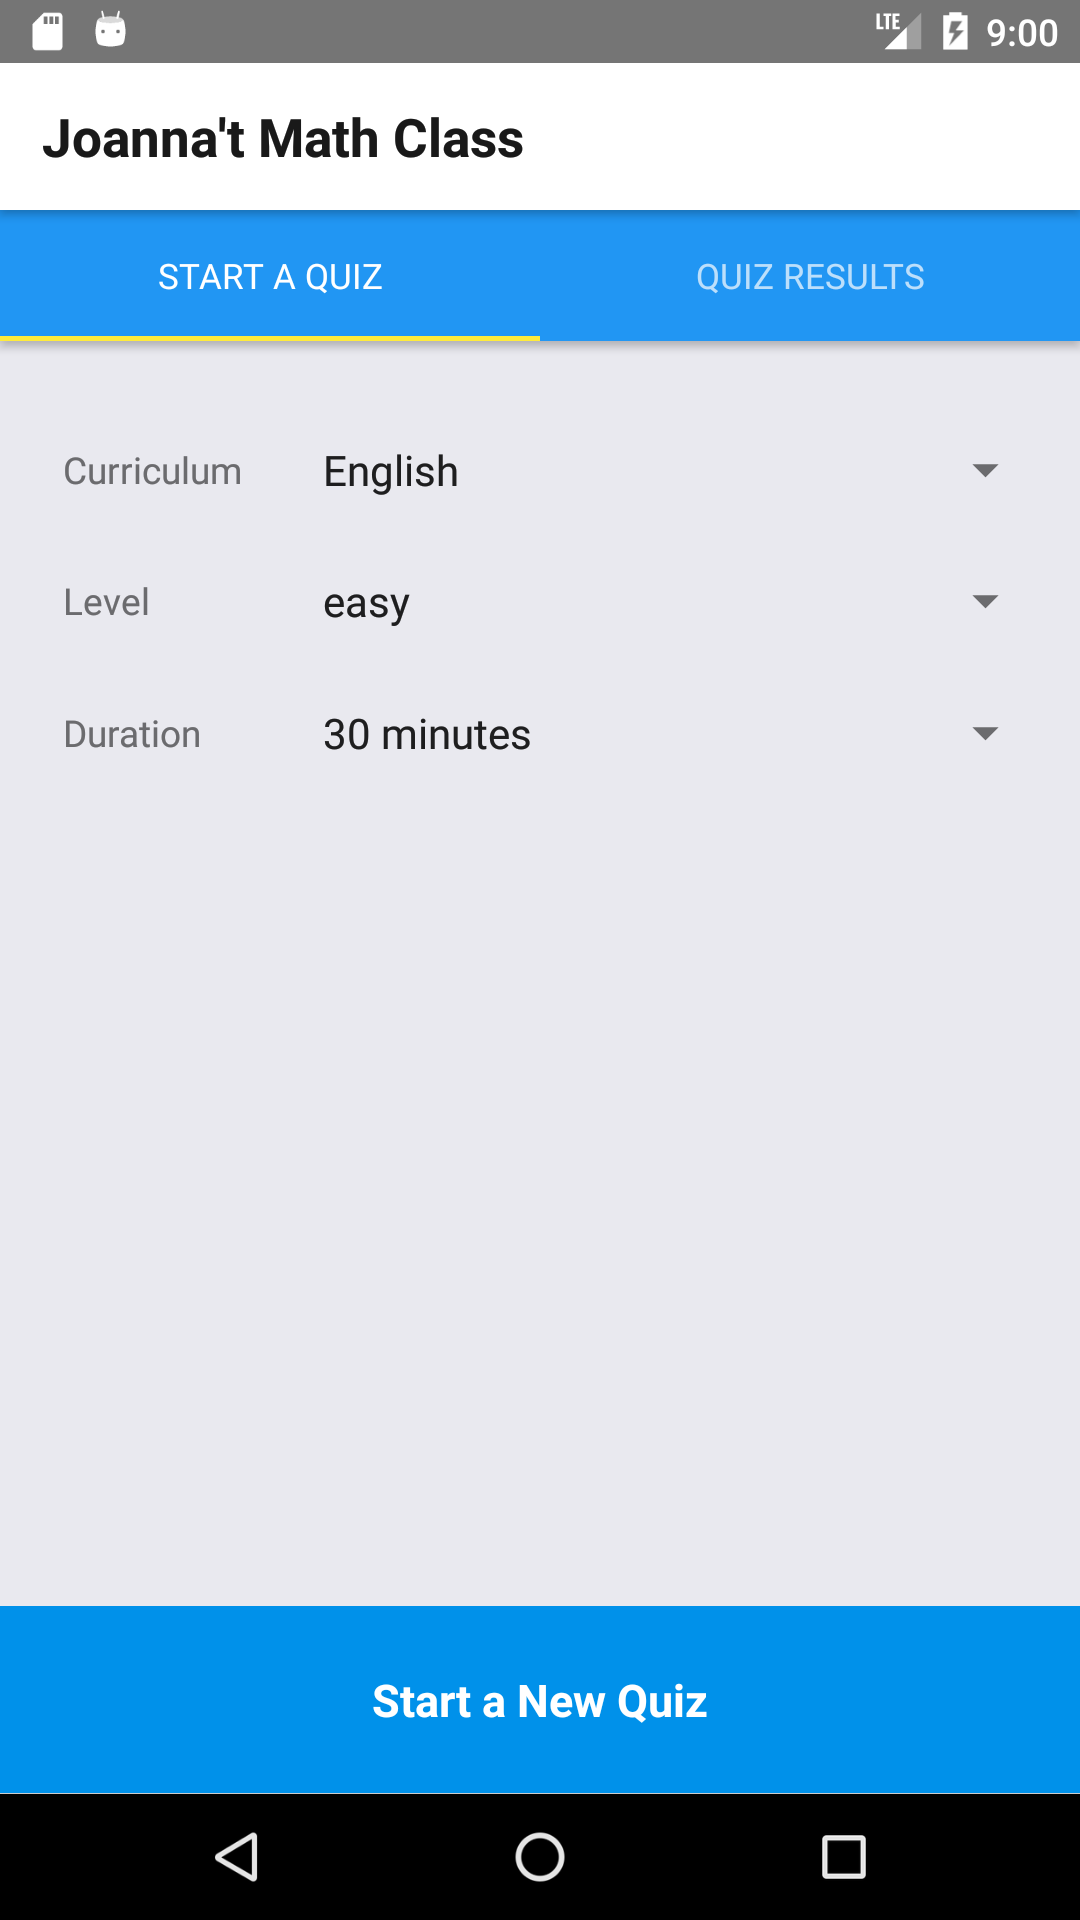
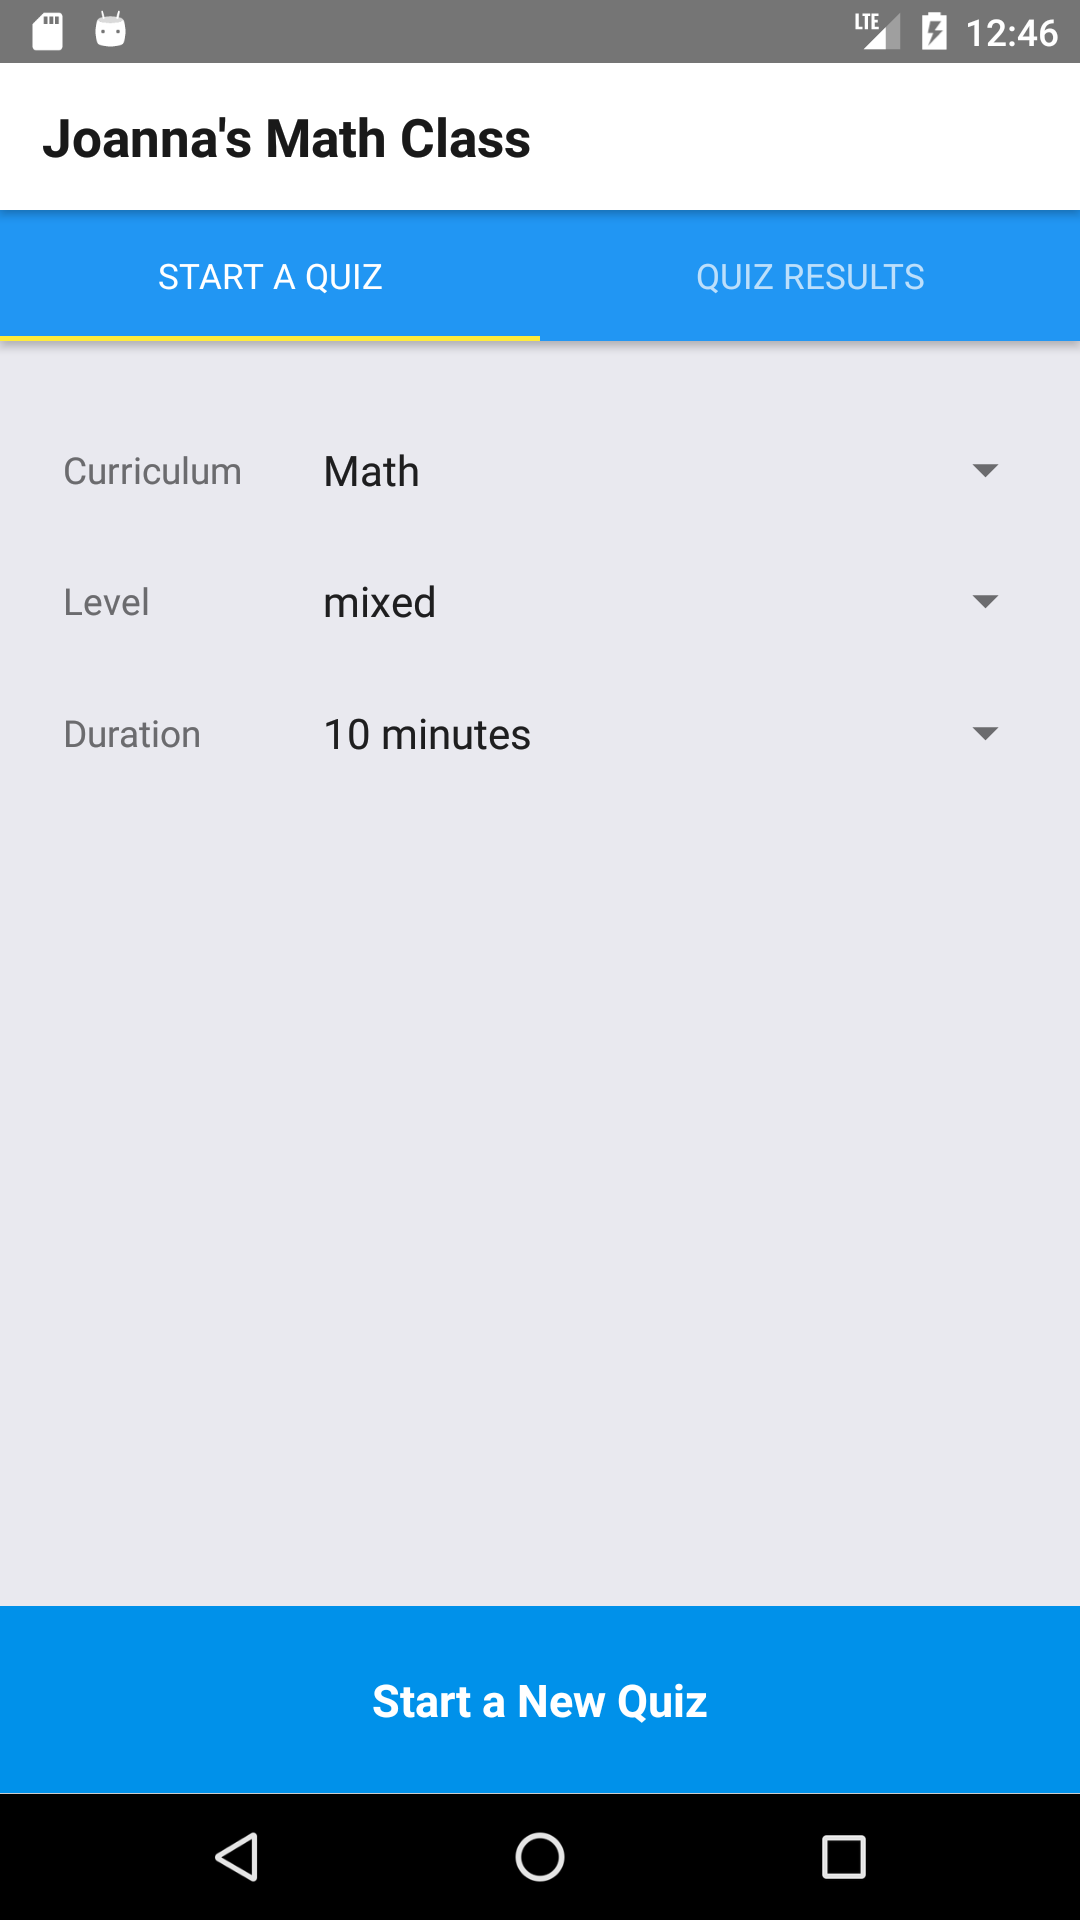
bugfix

diff --git a/app/app.js b/app/app.js
@@ -13,7 +13,7 @@ const RouteNavigator = StackNavigator({
   Index: {
     screen: IndexNavigator, // TabNavigatorScreen
     navigationOptions: {
-      title: `Joanna't Math Class`,
+      title: `Joanna's Math Class`,
     },
   },
   QuizDetails: { screen: QuizScreen }

diff --git a/app/common/quizGen.js b/app/common/quizGen.js
@@ -1,4 +1,4 @@
-const blackList = [100, 1, 99, 0];
+const blackList = [100, 99, 98, 1, 0];
 const randomGen = () => {
     let random;
     do {
